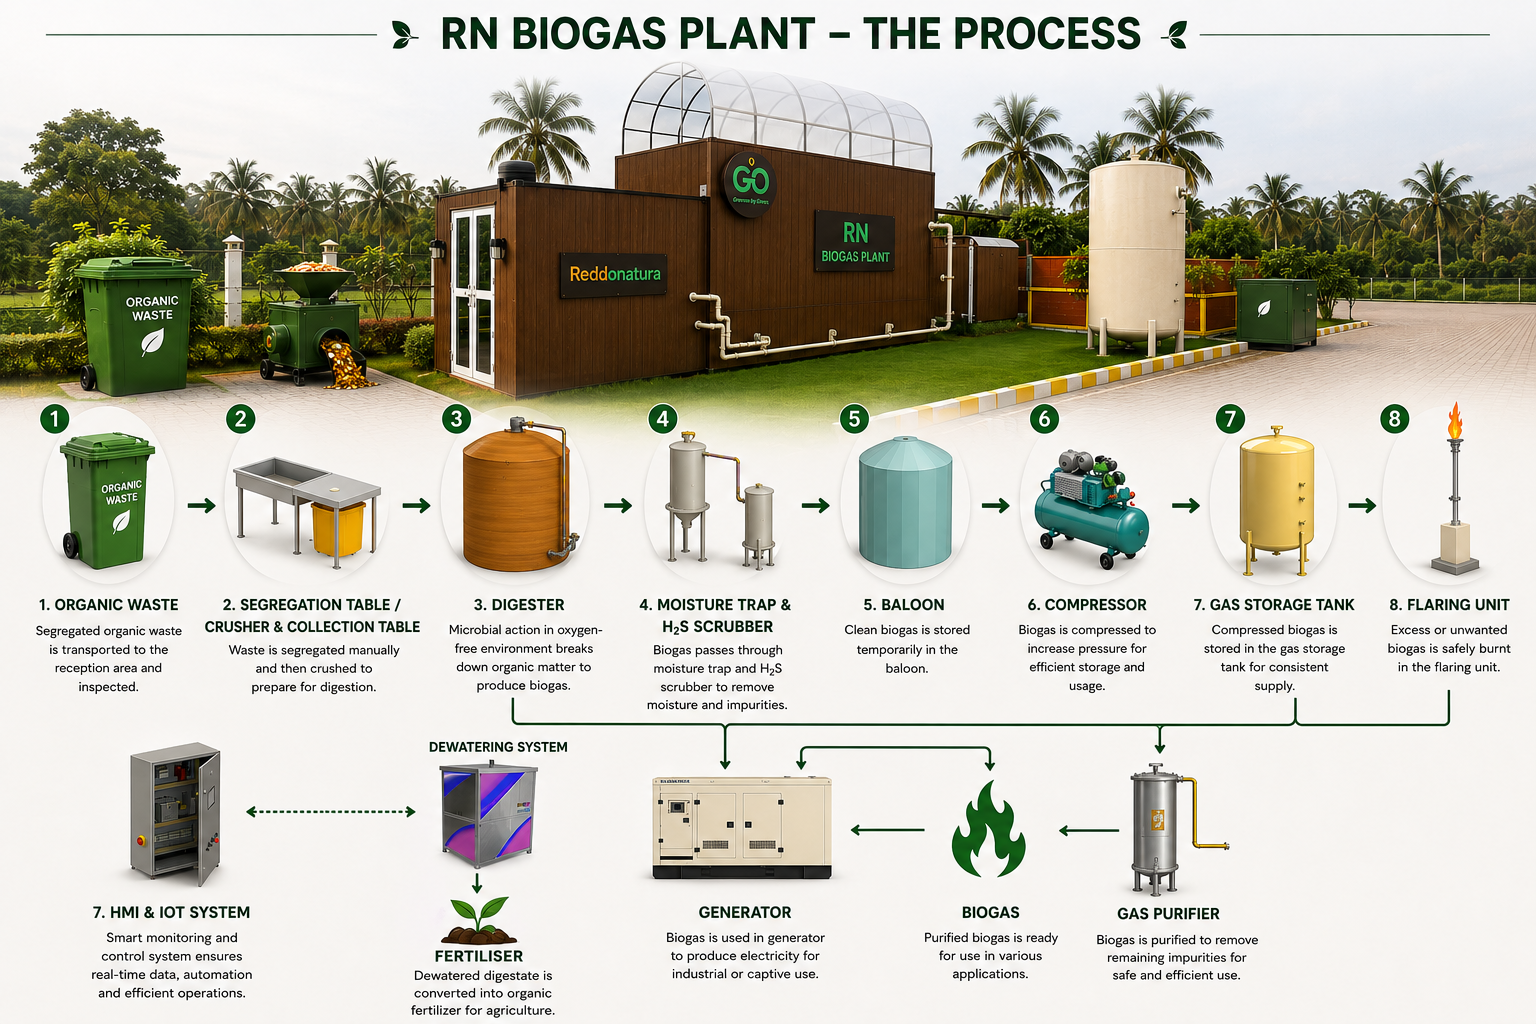
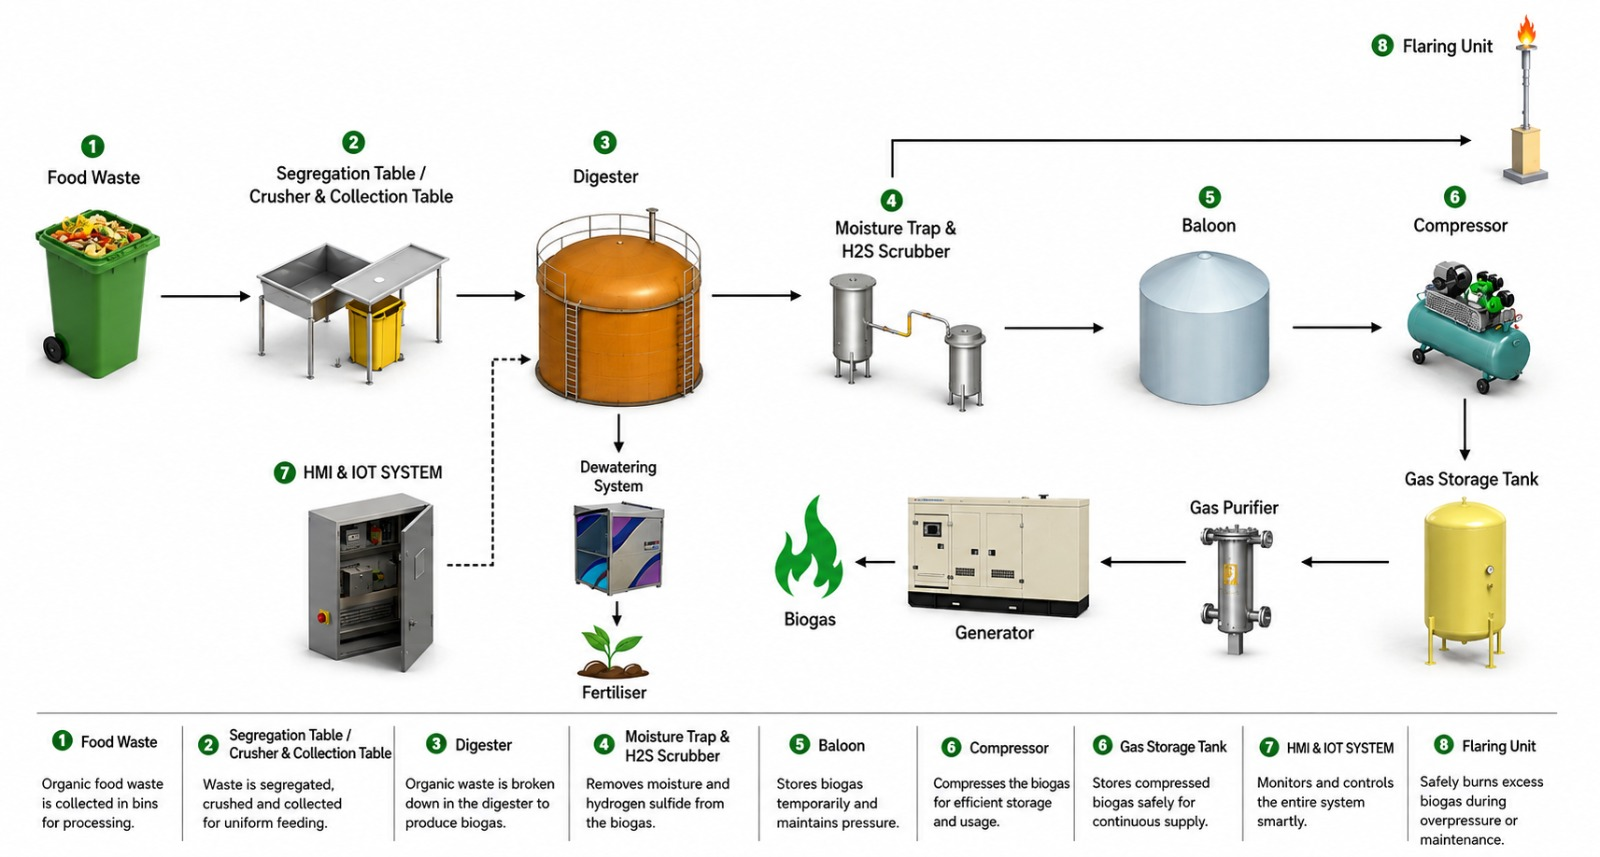
Update FAQ/Biogas content, About section copy, and Wet Waste spec tables
- FAQ: standardize on 24-36 hr / pre-compost language, correct client
  stats (1,500+ installations, 24+ countries), drop 24/7 support claim,
  and list all phone numbers/emails for quote requests.
- Biogas page: drop the Units/Kitchens spec column; swap in the new
  process-flow diagram image.
- Windrow Composting: swap in the new facility rendering image.
- About section: replace headline/copy with updated company messaging.
- Wet Waste Management: trim the Automatic spec table (remove 100/300/
  3000 KG rows, fill in 750 KG weight), drop Technical Specifications
  from the Semi-Automatic tab.
- Sync the same FAQ/spec corrections into the chatbot knowledge base.

diff --git a/src/app/pages/FAQPage.tsx b/src/app/pages/FAQPage.tsx
@@ -4,11 +4,11 @@ import { PageLayout, Section, SectionLabel, FAQAccordion, PageCTA, usePageMeta }
 const faqs = [
   {
     q: "What is an organic waste converter (OWC) and how does it work?",
-    a: "An organic waste converter, sometimes called a food waste composting machine, breaks down kitchen and food waste into nutrient-rich compost within 24 hours using controlled temperature, aeration, and moisture — instead of the weeks or months traditional composting takes. Reddonatura's CE-certified OWC machines are used by hotels, hospitals, apartments, and municipalities across 20+ countries to convert daily food waste directly into usable compost on-site.",
+    a: "An organic waste converter, sometimes called a food waste composting machine, breaks down kitchen and food waste into nutrient-rich pre-compost within 24–36 hours using controlled temperature, aeration, and moisture — instead of the weeks or months traditional composting takes. Reddonatura's CE-certified OWC machines are used by hotels, hospitals, apartments, and municipalities across 20+ countries to convert daily food waste directly into usable pre-compost on-site.",
   },
   {
     q: "What is the difference between composting and biogas (waste-to-energy)?",
-    a: "Composting breaks down organic waste aerobically (with oxygen) into solid compost that can be used as fertiliser. Biogas plants break down the same waste anaerobically (without oxygen) to produce methane-rich biogas — a renewable fuel that can generate electricity, heating, or cooking gas — along with a nutrient-rich digestate. Reddonatura offers both: organic waste digesters for compost, and RN Biogas plants for renewable energy recovery.",
+    a: "Composting breaks down organic waste aerobically (with oxygen) into pre-compost that can be used as fertiliser. Biogas plants break down the same waste anaerobically (without oxygen) to produce methane-rich biogas — a renewable fuel that can be used for generating electricity, heating, or cooking gas — along with a nutrient-rich digestate. Reddonatura offers both: organic waste digesters for pre-compost, and RN Biogas plants for renewable energy recovery.",
   },
   {
     q: "How much food waste can a Reddonatura machine process per day?",
@@ -20,7 +20,7 @@ const faqs = [
   },
   {
     q: "What industries use Reddonatura's waste-to-resource solutions?",
-    a: "Reddonatura serves over 10 industries including hotels and resorts, restaurants and food chains, hospitals and healthcare facilities, airports and transit hubs, municipal corporations, residential apartments, agriculture and food processing units, commercial complexes, and tourism and parks — with more than 7,000 clients worldwide across 20+ countries.",
+    a: "Reddonatura serves over 10 industries including hotels and resorts, restaurants and food chains, hospitals and healthcare facilities, airports and transit hubs, municipal corporations, residential apartments, agriculture and food processing units, commercial complexes, and tourism and parks — with 1,500+ installations worldwide across 24+ countries.",
   },
   {
     q: "How does the 'Garbage to Green' (G2G) approach reduce environmental impact?",
@@ -36,11 +36,11 @@ const faqs = [
   },
   {
     q: "What after-sales support and maintenance does Reddonatura provide?",
-    a: "We offer tiered maintenance packages ranging from annual inspections to real-time remote monitoring and 24/7 dedicated support. Every plan includes detailed mechanical and electrical inspection reports, maintenance advisory, and access to genuine spare parts, backed by our in-house team of trained engineers and electricians.",
+    a: "We offer tiered maintenance packages ranging from annual inspections to real-time remote monitoring and dedicated support. Every plan includes detailed mechanical and electrical inspection reports, maintenance advisory, and access to genuine spare parts, backed by our in-house team of trained engineers and electricians.",
   },
   {
     q: "How do I get a quote or consultation for a waste management solution?",
-    a: "You can request a free consultation and tailored quote by clicking \"Get a Quote\" anywhere on our website, calling us at +91 77609 87934, or emailing info@reddonatura.com. Our team will assess your facility type, daily waste volume, and goals to recommend the right combination of composting, biogas, dewatering, or solar solutions for your operation.",
+    a: "You can request a free consultation and tailored quote by clicking \"Get a Quote\" anywhere on our website, calling us at +91 77609 87934 or +91 73384 62806, or emailing info@reddonatura.com, geetha@reddonatura.com, or naziya@reddonatura.com. Our team will assess your facility type, daily waste volume, and goals to recommend the right combination of composting, biogas, dewatering, or solar solutions for your operation.",
   },
 ];
 

diff --git a/src/app/pages/products/WetWasteManagementPage.tsx b/src/app/pages/products/WetWasteManagementPage.tsx
@@ -23,7 +23,7 @@ import Binlifter1 from "../../../imports/binlifter1.jpg";
 import Binlifter11 from "../../../imports/binlifter1.png";
 import Binlifter2 from "../../../imports/Biolifter2.jpg";
 import Binlifter3 from "../../../imports/Biolifter3.jpg";
-import { BadgeCheck } from "lucide-react";
+import Iso14001 from "../../../imports/iso14001.png";
 
 import pretreatment2 from "../../../imports/Pretreatment2.jpg";
 import pretreatment3 from "../../../imports/Pretreatment3.jpg";
@@ -149,16 +149,13 @@ const composingSubTabs = [
   ["25 KG", "1493", "580", "1188", "1.93", "350 kg"],
   ["50 KG", "1676", "700", "1341", "2.05", "450 kg"],
   ["75 KG", "1860", "792", "1127", "4.12", "550 kg"],
-  ["100 KG", "1860", "792", "1127", "4.12", ""],
   ["125 KG", "2286", "944", "1432", "5.22", "700 kg"],
   ["200 KG", "2500", "975", "1432", "6.47", "750 kg"],
   ["250 KG", "2750", "1158", "1554", "8.87", "1020 kg"],
-  ["300 KG", "2750", "1158", "1554", "8.87", ""],
   ["500 KG", "3000", "1432", "1860", "16.37", "1650 kg"],
-  ["750 KG", "3535", "1402", "1950", "22.25", ""],
+  ["750 KG", "3535", "1402", "1950", "22.25", "2000 kg"],
   ["1000 KG", "3962", "2100", "2133", "27.25", "2900 kg"],
   ["2000 KG", "4100", "2011", "2500", "57.5", "3900 kg"],
-  ["3000 KG", "4575", "2100", "2530", "76.5", ""],
 ],
     image: [img1,  Owcfull, Owcfull2],
   },
@@ -562,75 +559,14 @@ const [selectedCapacity, setSelectedCapacity] = useState("");
            </div>
 
 <div className="order-1 lg:order-2 w-full relative">
-  {/* CE Certification Card — automatic model only */}
+  {/* ISO 14001 Certification Seal — automatic model only */}
   {sub === "automatic" && (
-  <div
-    className="absolute z-20 -top-2 -left-2 scale-[0.62] origin-top-left sm:scale-100 sm:-top-4 sm:-left-4 md:-top-5 md:-left-5"
-  style={{
-  backgroundColor: "#0D8239",
-  width: "130px",
-  padding: "14px",
-  borderRadius: "4px",
-  border: "2px solid #D4AF37", // Gold border
-  boxShadow:
-    "0 20px 45px rgba(5,49,20,0.18), 0 0 0 1px rgba(255,215,0,0.35)",
-  textAlign: "center",
-}}
-  >
-    {/* Gold Badge */}
-    <div
-      style={{
-        width: "58px",
-        height: "58px",
-        margin: "0 auto",
-        borderRadius: "50%",
-        background:
-          "linear-gradient(135deg, #FFF4B0 0%, #FFD95A 35%, #D4A017 70%, #A97800 100%)",
-        display: "flex",
-        alignItems: "center",
-        justifyContent: "center",
-        boxShadow:
-          "0 6px 18px rgba(212,160,23,0.45), inset 0 2px 4px rgba(255,255,255,0.55)",
-        border: "2px solid rgba(255,255,255,0.45)",
-      }}
-    >
-      <BadgeCheck
-        size={34}
-        color="#ffffff"
-        strokeWidth={2.5}
-      />
-    </div>
-
-    {/* Title */}
-    <div
-      style={{
-        marginTop: "10px",
-        fontFamily: "'DM Sans', sans-serif",
-        fontWeight: 700,
-        fontSize: "0.82rem",
-        color: "#fff",
-        letterSpacing: "0.08em",
-        textTransform: "uppercase",
-        lineHeight: 1.3,
-      }}
-    >
-      CE Certified
-    </div>
-
-    {/* Subtitle */}
-    <div
-      style={{
-        marginTop: "4px",
-        fontFamily: "'DM Sans', sans-serif",
-        fontWeight: 400,
-        fontSize: "0.72rem",
-        color: "rgba(255,255,255,0.85)",
-        lineHeight: 1.4,
-      }}
-    >
-      European Standard
-    </div>
-  </div>
+  <img
+    src={Iso14001}
+    alt="ISO 14001 Certified — Environmental Management System"
+    className="absolute z-20 -top-2 -left-2 w-[72px] sm:w-[110px] sm:-top-4 sm:-left-4 md:-top-5 md:-left-5"
+    style={{ filter: "drop-shadow(0 12px 22px rgba(5,49,20,0.35))" }}
+  />
   )}
 
   <Swiper
@@ -730,6 +666,7 @@ const [selectedCapacity, setSelectedCapacity] = useState("");
 </div>
 )}
 
+{sub !== "semiauto" && (
 <div className="mt-16">
   <h3
   className="mb-6"
@@ -790,6 +727,7 @@ const [selectedCapacity, setSelectedCapacity] = useState("");
   </ul>
 </div>
 </div>
+)}
 
 
       </motion.div>

diff --git a/src/app/components/About.tsx b/src/app/components/About.tsx
@@ -104,12 +104,11 @@ export function About() {
     lineHeight: 1.2,
   }}
 >
-  Leading the World{" "}
+  Innovative Solutions for a{" "}
   <span style={{ color: "#0D8239" }}>
-    Toward
-  </span>
-  <br />
-  a Greener Tomorrow
+    Sustainable
+  </span>{" "}
+  Future
 </motion.h2>
             <motion.p
               initial={{ opacity: 0, y: 16 }}
@@ -123,17 +122,19 @@ export function About() {
                 color: "#4A5C4B",
               }}
             >
-              Reddonatura is one of the world's leading waste solution
-              providers. Our success is driven by our commitment to green,
-              renewable solutions — and it begins with an environmentally sound
-              approach that transforms waste into something genuinely valuable.
+              Reddonatura is a leading waste management and environmental
+              technology company focused on transforming waste into valuable
+              resources. With over a decade of industry experience, we design
+              and manufacture innovative solutions for organic waste
+              processing, composting, shredding, dewatering and resource
+              recovery.
             </motion.p>
 
             <motion.p
               initial={{ opacity: 0, y: 16 }}
               animate={inView ? { opacity: 1, y: 0 } : {}}
               transition={{ duration: 0.6, delay: 0.3 }}
-              className="mb-12 leading-[1.8]"
+              className="mb-6 leading-[1.8]"
               style={{
                 fontFamily: "'DM Sans', sans-serif",
                 fontWeight: 300,
@@ -141,16 +142,33 @@ export function About() {
                 color: "#4A5C4B",
               }}
             >
-              Through innovative, environmentally friendly technologies, we aim
-              to transform waste into resources — rendering a smooth transition
-              on every journey from garbage to green.
+              Serving clients across diverse sectors and international
+              markets, we combine engineering expertise, smart technology and
+              sustainable practices to deliver reliable, efficient and
+              environmentally responsible waste management solutions.
+            </motion.p>
+
+            <motion.p
+              initial={{ opacity: 0, y: 16 }}
+              animate={inView ? { opacity: 1, y: 0 } : {}}
+              transition={{ duration: 0.6, delay: 0.4 }}
+              className="mb-12 leading-[1.8]"
+              style={{
+                fontFamily: "'DM Sans', sans-serif",
+                fontWeight: 500,
+                fontSize: "1.025rem",
+                color: "#0C1A0D",
+              }}
+            >
+              Our mission is simple: Reduce waste. Recover resources. Build a
+              sustainable future.
             </motion.p>
 
             {/* Credentials list */}
             <motion.div
               initial={{ opacity: 0, y: 16 }}
               animate={inView ? { opacity: 1, y: 0 } : {}}
-              transition={{ duration: 0.6, delay: 0.4 }}
+              transition={{ duration: 0.6, delay: 0.5 }}
               className="space-y-4 mb-12"
             >
               {credentials.map((item, i) => (

diff --git a/src/app/components/Products.tsx b/src/app/components/Products.tsx
@@ -81,13 +81,13 @@ export function Products() {
             <span style={{ fontFamily: "'Playfair Display', Georgia, serif", fontStyle: "normal", fontWeight: 400, fontSize: "clamp(2rem, 3.5vw, 3rem)", color: "#0D8239", lineHeight: 1 }}>
               Our
             </span>
-            <span style={{ fontFamily: "'DM Sans', sans-serif", fontWeight: 600, fontSize: "14px", letterSpacing: "0.22em", textTransform: "uppercase", color: "#A0780E", paddingBottom: "5px" }}>
+            <span style={{ fontFamily: "'Playfair Display', Georgia, serif", fontStyle: "normal", fontWeight: 400, fontSize: "clamp(2rem, 3.5vw, 3rem)", color: "#A0780E", lineHeight: 1 }}>
               Solutions
             </span>
           </div>
-          <p style={{ fontFamily: "'DM Sans', sans-serif", fontWeight: 300, fontSize: "0.95rem", color: "#4A6B4D", maxWidth: "380px", lineHeight: 1.7 }}>
+         {/* <p style={{ fontFamily: "'DM Sans', sans-serif", fontWeight: 300, fontSize: "0.95rem", color: "#4A6B4D", maxWidth: "380px", lineHeight: 1.7 }}>
             Comprehensive waste-to-resource solutions across organics, energy, and remediation.
-          </p>
+          </p>*/}
         </motion.div>
       </div>
 

diff --git a/src/app/components/Statistics.tsx b/src/app/components/Statistics.tsx
@@ -234,16 +234,14 @@ export function VisionMission() {
 
             <span
               style={{
-                fontFamily: "'DM Sans', sans-serif",
-                fontWeight: 600,
-                fontSize: "14px",
-                letterSpacing: "0.22em",
-                textTransform: "uppercase",
+                fontFamily: "'Playfair Display', Georgia, serif",
+                fontWeight: 400,
+                fontSize: "clamp(2.2rem, 3.5vw, 3rem)",
                 color: "#A0780E",
-                paddingBottom: "5px",
+                lineHeight: 1,
               }}
             >
-              PURPOSE
+              Purpose
             </span>
           </div>
 

diff --git a/src/app/components/Testimonials.tsx b/src/app/components/Testimonials.tsx
@@ -368,13 +368,13 @@ export default function Testimonials() {
           >
             Trusted by Industry Leaders
           </h2>
-          <p
+        {/*  <p
             className="max-w-2xl mx-auto leading-8"
             style={{ fontFamily: "Inter, sans-serif", fontSize: "17px", color: "rgba(255,255,255,0.6)", fontWeight: 400 }}
           >
             Government departments, defence establishments, public sector corporations
             and leading real estate developers — all relying on Reddonatura.
-          </p>
+          </p>*/}
         </motion.div>
 
         {/* Stats strip */}

diff --git a/src/app/pages/products/BiogasPage.tsx b/src/app/pages/products/BiogasPage.tsx
@@ -116,21 +116,6 @@ const specs = {
       "330–340",
       "660–680",
     ],
-    
-    
-
-    
-    [
-      "Suitable to cater No. of Units*/ Kitchens (+5%)",
-      "450",
-      "650",
-      "900",
-      "1200",
-      "1700",
-      "2400",
-      "2800",
-      "6500",
-    ],
     [
       "Min. Area Requirement (Machine + Operational combined) (m²)",
       "18",
